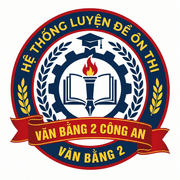
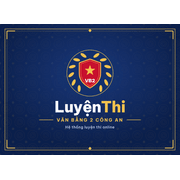
updatelogo

diff --git a/app/api/blogs/route.ts b/app/api/blogs/route.ts
@@ -49,7 +49,7 @@ Thí sinh thực hiện 01 bài thi tổng hợp kéo dài **150 phút**, thang 
 ## 3. Lời khuyên ôn tập từ Ban Quản Trị
 
 Thí sinh nên luyện tập bấm giờ 150 phút thực tế trên hệ thống **onthivb2.io.vn** để rèn luyện thói quen phân bổ thời gian: dành 45-50 phút cho bài viết tự luận và 90-100 phút cho các câu hỏi chuyên ngành.`,
-    coverImage: 'https://images.unsplash.com/photo-1541339907198-e08756dedf3f?auto=format&fit=crop&w=1200&q=80',
+    coverImage: '/blog-tuyen-sinh.png',
     category: 'TIN_TUYEN_SINH',
     author: 'Ban Quản Trị Tuyển Sinh CAND',
     authorRole: 'Admin',
@@ -78,7 +78,7 @@ Hệ thống phòng thi trực tuyến của onthivb2.io.vn có bộ đếm từ
   - *Bình luận & Phân tích:* Nêu nguyên nhân, thực trạng và ý nghĩa của vấn đề. Đưa ra ít nhất 2 dẫn chứng thực tế thuyết phục (ví dụ: tinh thần phụng sự của lực lượng vũ trang nhân dân, công cuộc chuyển đổi số quốc gia, giữ gìn an ninh mạng...).
   - *Phản đề & Mở rộng:* Phê phán các hiện tượng tiêu cực, lệch lạc, thiếu trách nhiệm đối với cộng đồng.
 - **Kết bài (khoảng 60 - 80 từ):** Khái quát lại bài học nhận thức và liên hệ hành động cụ thể của bản thân khi đứng trước nguyện vọng cống hiến cho Tổ quốc và lực lượng Công an nhân dân.`,
-    coverImage: 'https://images.unsplash.com/photo-1455390582262-044cdead277a?auto=format&fit=crop&w=1200&q=80',
+    coverImage: '/blog-tu-luan.png',
     category: 'KINH_NGHIEM_THI',
     author: 'Tổ Chuyên Môn Lý Luận Chính Trị',
     authorRole: 'Admin',
@@ -109,7 +109,7 @@ Mã đề CA1 gồm **45 câu trắc nghiệm khách quan** và **5 câu trả l
    - Phương trình vi phân cấp 1 và cấp 2 hệ số hằng.
 
 Hệ thống đã hỗ trợ hiển thị công thức toán học định dạng LaTeX sắc nét trên cả máy tính và điện thoại để thí sinh ôn tập thuận tiện nhất.`,
-    coverImage: 'https://images.unsplash.com/photo-1635070041078-e363dbe005cb?auto=format&fit=crop&w=1200&q=80',
+    coverImage: '/blog-ca1.png',
     category: 'QUY_CHE_ON_THI',
     author: 'Ban Giảng Viên Khối Tự Nhiên',
     authorRole: 'Admin',
@@ -280,7 +280,7 @@ export async function POST(req: NextRequest) {
       title,
       summary: summary || title,
       content,
-      coverImage: coverImage || 'https://images.unsplash.com/photo-1541339907198-e08756dedf3f?auto=format&fit=crop&w=1200&q=80',
+      coverImage: coverImage || '/blog-default.png',
       category,
       author,
       authorRole,

diff --git a/app/blog/page.tsx b/app/blog/page.tsx
@@ -169,7 +169,7 @@ export default function BlogListingPage() {
               <div className="bg-white rounded-3xl border border-slate-200 shadow-sm overflow-hidden grid grid-cols-1 lg:grid-cols-12 hover:shadow-md transition">
                 <div className="lg:col-span-7 h-64 sm:h-80 lg:h-full relative overflow-hidden bg-slate-100">
                   <img
-                    src={featuredPost.coverImage || 'https://images.unsplash.com/photo-1541339907198-e08756dedf3f?auto=format&fit=crop&w=1200&q=80'}
+                    src={featuredPost.coverImage || '/blog-tuyen-sinh.png'}
                     alt={featuredPost.title}
                     className="w-full h-full object-cover"
                   />
@@ -234,7 +234,7 @@ export default function BlogListingPage() {
                     <div>
                       <div className="h-44 w-full relative overflow-hidden bg-slate-100">
                         <img
-                          src={post.coverImage || 'https://images.unsplash.com/photo-1541339907198-e08756dedf3f?auto=format&fit=crop&w=1200&q=80'}
+                          src={post.coverImage || '/blog-default.png'}
                           alt={post.title}
                           className="w-full h-full object-cover"
                         />

diff --git a/app/page.tsx b/app/page.tsx
@@ -644,15 +644,13 @@ export default function HomePage() {
                   className="bg-white rounded-3xl border border-slate-200/90 shadow-sm overflow-hidden flex flex-col justify-between hover:shadow-md transition"
                 >
                   <div>
-                    {b.coverImage && (
-                      <div className="h-36 w-full relative overflow-hidden bg-slate-100">
-                        <img
-                          src={b.coverImage}
-                          alt={b.title}
-                          className="w-full h-full object-cover"
-                        />
-                      </div>
-                    )}
+                    <div className="h-36 w-full relative overflow-hidden bg-slate-100">
+                      <img
+                        src={b.coverImage || '/blog-default.png'}
+                        alt={b.title}
+                        className="w-full h-full object-cover"
+                      />
+                    </div>
                     <div className="p-4 space-y-1.5">
                       <span className="text-[10px] font-bold text-emerald-800 bg-emerald-50 px-2 py-0.5 rounded border border-emerald-200 inline-block">
                         {b.category === 'TIN_TUYEN_SINH'

diff --git a/app/layout.tsx b/app/layout.tsx
@@ -25,10 +25,11 @@ export const metadata: Metadata = {
   creator: 'Thi Online VB2 CAND',
   icons: {
     icon: [
-      { url: '/logo.png', type: 'image/png' },
-      { url: '/icon.png', type: 'image/png' },
+      { url: '/favicon.ico', sizes: 'any' },
+      { url: '/icon.png', type: 'image/png', sizes: '192x192' },
+      { url: '/logo.png', type: 'image/png', sizes: '512x512' },
     ],
-    shortcut: '/logo.png',
+    shortcut: '/favicon.ico',
     apple: [
       { url: '/apple-icon.png', sizes: '180x180', type: 'image/png' },
     ],
@@ -72,7 +73,9 @@ export default function RootLayout({
           href="https://cdn.jsdelivr.net/npm/katex@0.16.11/dist/katex.min.css"
           crossOrigin="anonymous"
         />
-        <link rel="icon" href="/logo.png" type="image/png" />
+        <link rel="icon" href="/favicon.ico" sizes="any" />
+        <link rel="shortcut icon" href="/favicon.ico" />
+        <link rel="apple-touch-icon" href="/apple-icon.png" />
       </head>
       <body className="min-h-full flex flex-col bg-[#f7f8f7] text-slate-800 font-sans antialiased">
         {children}

diff --git a/app/blog/[id]/page.tsx b/app/blog/[id]/page.tsx
@@ -222,15 +222,13 @@ function BlogDetailInner({ id: postId }: { id: string }) {
         </div>
 
         {/* Ảnh bìa lớn */}
-        {post.coverImage && (
-          <div className="rounded-3xl overflow-hidden shadow-md max-h-[440px] w-full bg-slate-100 border border-slate-200">
-            <img
-              src={post.coverImage}
-              alt={post.title}
-              className="w-full h-full object-cover"
-            />
-          </div>
-        )}
+        <div className="rounded-3xl overflow-hidden shadow-md max-h-[440px] w-full bg-slate-100 border border-slate-200">
+          <img
+            src={post.coverImage || '/blog-default.png'}
+            alt={post.title}
+            className="w-full h-full object-cover"
+          />
+        </div>
 
         {/* Nội dung chi tiết bài viết */}
         <article className="bg-white rounded-3xl p-6 sm:p-10 border border-slate-200 shadow-sm text-slate-800 leading-relaxed space-y-4">

diff --git a/app/admin/page.tsx b/app/admin/page.tsx
@@ -212,7 +212,7 @@ export default function AdminDashboardPage() {
       category: 'TIN_TUYEN_SINH',
       summary: '',
       content: '',
-      coverImage: 'https://images.unsplash.com/photo-1541339907198-e08756dedf3f?auto=format&fit=crop&w=1200&q=80',
+      coverImage: '/blog-default.png',
       author: candidate?.fullName || candidate?.username || 'Ban Quản Trị',
       authorRole: 'Admin',
       isPublished: true,
